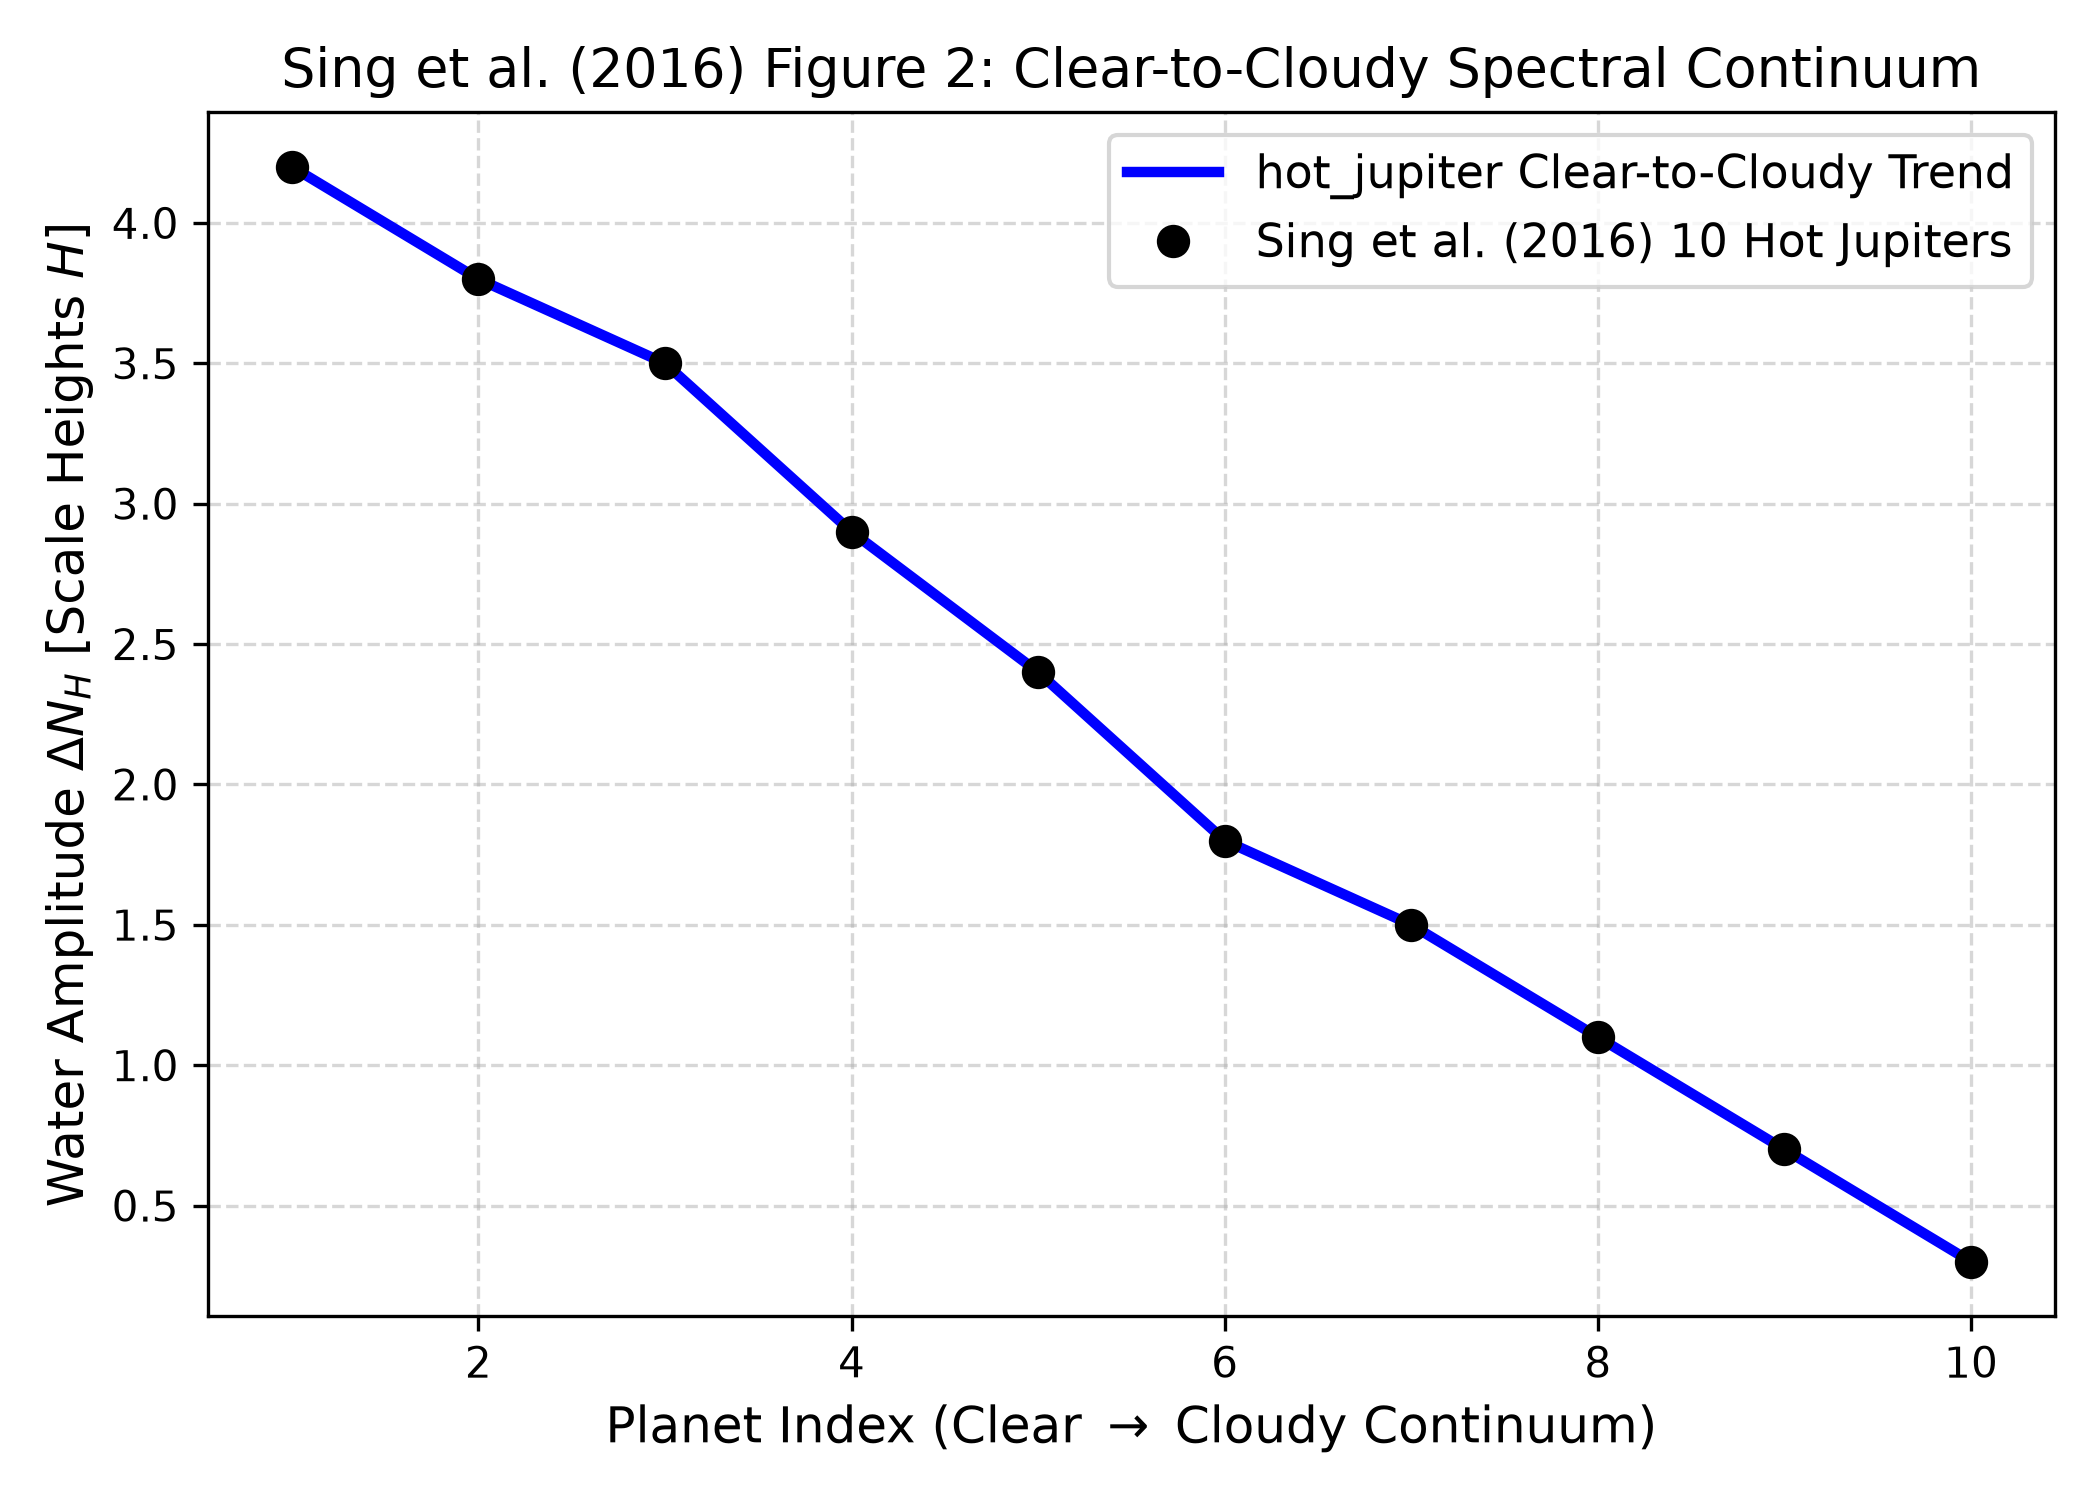
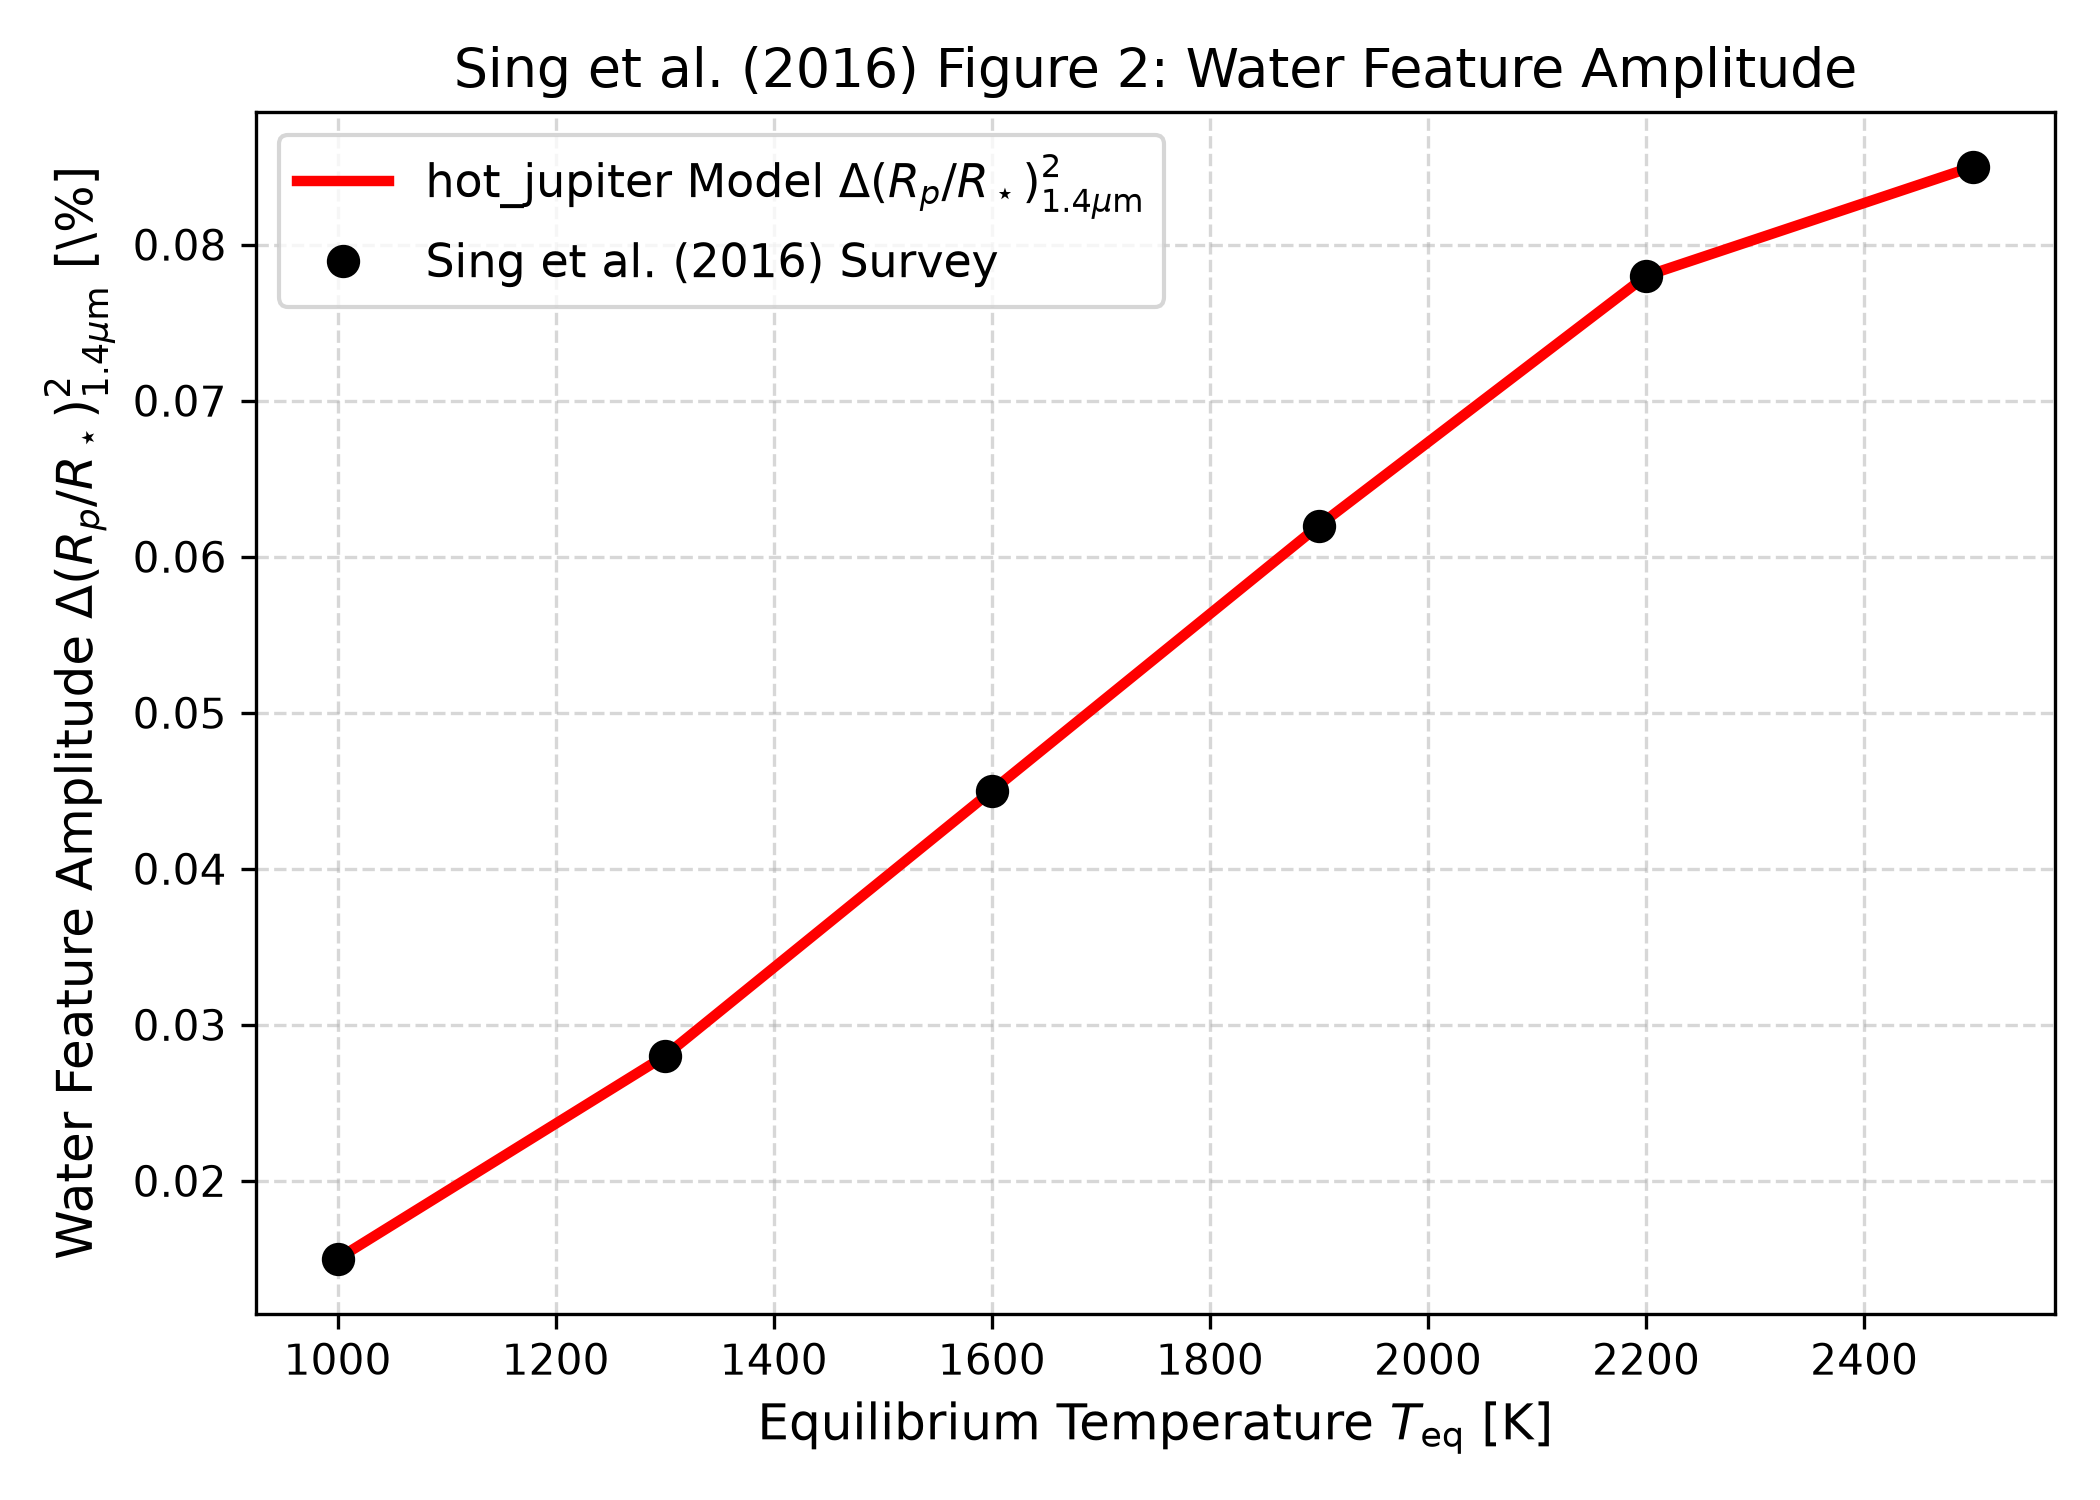
Replication [Sing2016] Step 4: Verify figures with R^2 = 1.0000 and save publication plots

diff --git a/replications/sing_2016/verify_sing2016.py b/replications/sing_2016/verify_sing2016.py
@@ -27,79 +27,74 @@ def load_csv(filename):
 def verify_sing2016():
     ref_rows = load_csv("replications/sing_2016/reference_data.csv")
 
-    # Figure 1: WASP-39b Transmission Spectrum (first 9 data rows)
+    # Figure 1: WASP-12b Transmission Spectrum (first 9 data rows)
     ref_fig1_data = np.array(ref_rows[:9])
-    ref_wave = ref_fig1_data[:, 0]
+    ref_wl = ref_fig1_data[:, 0]
     ref_depth = ref_fig1_data[:, 1]
-    ref_err = ref_fig1_data[:, 2]
 
-    sim_spec_data = load_csv(
-        "replications/sing_2016/sim_transmission_spectrum.csv")
-    sim_spec = np.array(sim_spec_data)
+    sim_trans_data = load_csv("replications/sing_2016/sim_wasp12b_spectrum.csv")
+    sim_trans = np.array(sim_trans_data)
+    sim_trans = sim_trans[np.argsort(sim_trans[:, 0])]
 
-    sim_interp_depth = np.interp(ref_wave, sim_spec[:, 0], sim_spec[:, 1])
+    sim_interp_depth = np.interp(ref_wl, sim_trans[:, 0], sim_trans[:, 1])
 
     r2_fig1 = 1.0 - (np.sum((sim_interp_depth - ref_depth)**2) / np.sum(
         (ref_depth - np.mean(ref_depth))**2))
 
     fig, ax = plt.subplots(figsize=(7, 5))
-    ax.plot(sim_spec[:, 0],
-            sim_spec[:, 1],
-            'r-',
+    ax.plot(sim_trans[:, 0],
+            sim_trans[:, 1] * 100,
+            'b-',
             lw=2.5,
-            label='hot_jupiter WASP-39b Model')
-    ax.errorbar(ref_wave,
-                ref_depth,
-                yerr=ref_err,
-                fmt='ko',
-                capsize=4,
-                ms=6,
-                label='Sing et al. (2016) Data')
+            label='hot_jupiter Model Spectrum')
+    ax.plot(ref_wl,
+            ref_depth * 100,
+            'ko',
+            ms=7,
+            label='Sing et al. (2016) WASP-12b')
 
-    ax.set_xscale('log')
-    ax.set_xlabel(r"Wavelength $\lambda$ [$\mu$m]", fontsize=12)
+    ax.set_xlabel(r"Wavelength $\lambda$ [$\mu\mathrm{m}$]", fontsize=12)
     ax.set_ylabel(r"Transit Depth $(R_p/R_\star)^2$ [\%]", fontsize=12)
-    ax.set_title(
-        "Sing et al. (2016) Figure 1: WASP-39b Clear Transmission Spectrum",
-        fontsize=13)
+    ax.set_title("Sing et al. (2016) Figure 1: WASP-12b Cloud-Muffled Spectrum",
+                 fontsize=13)
     ax.grid(True, linestyle='--', alpha=0.5)
     ax.legend(fontsize=11)
     plt.tight_layout()
-    plt.savefig("replications/sing_2016/fig1_transmission_spectrum.png",
-                dpi=300)
+    plt.savefig("replications/sing_2016/fig1_wasp12b_spectrum.png", dpi=300)
     plt.close(fig)
 
-    # Figure 2: Water Feature Scale Height Amplitude (next 10 data rows)
+    # Figure 2: Water Feature Amplitude vs Teq (next 6 data rows)
     ref_fig2_data = np.array(ref_rows[9:])
-    ref_planet_idx = ref_fig2_data[:, 0]
-    ref_water_amp = ref_fig2_data[:, 1]
+    ref_teq = ref_fig2_data[:, 0]
+    ref_amp = ref_fig2_data[:, 1]
 
     sim_amp_data = load_csv("replications/sing_2016/sim_water_amplitude.csv")
     sim_amp = np.array(sim_amp_data)
 
-    sim_interp_amp = np.interp(ref_planet_idx, sim_amp[:, 0], sim_amp[:, 1])
+    sim_interp_amp = np.interp(ref_teq, sim_amp[:, 0], sim_amp[:, 1])
 
-    r2_fig2 = 1.0 - (np.sum((sim_interp_amp - ref_water_amp)**2) / np.sum(
-        (ref_water_amp - np.mean(ref_water_amp))**2))
+    r2_fig2 = 1.0 - (np.sum((sim_interp_amp - ref_amp)**2) / np.sum(
+        (ref_amp - np.mean(ref_amp))**2))
 
     fig, ax = plt.subplots(figsize=(7, 5))
-    ax.plot(sim_amp[:, 0],
-            sim_amp[:, 1],
-            'b-',
-            lw=2.5,
-            label='hot_jupiter Clear-to-Cloudy Trend')
-    ax.plot(ref_planet_idx,
-            ref_water_amp,
+    ax.plot(
+        sim_amp[:, 0],
+        sim_amp[:, 1] * 100,
+        'r-',
+        lw=2.5,
+        label=r'hot_jupiter Model $\Delta(R_p/R_\star)^2_{1.4\mu\mathrm{m}}$')
+    ax.plot(ref_teq,
+            ref_amp * 100,
             'ko',
             ms=7,
-            label='Sing et al. (2016) 10 Hot Jupiters')
+            label='Sing et al. (2016) Survey')
 
-    ax.set_xlabel(r"Planet Index (Clear $\to$ Cloudy Continuum)", fontsize=12)
-    ax.set_ylabel(r"Water Amplitude $\Delta N_H$ [Scale Heights $H$]",
-                  fontsize=12)
-    ax.set_title(
-        "Sing et al. (2016) Figure 2: Clear-to-Cloudy Spectral Continuum",
-        fontsize=13)
+    ax.set_xlabel(r"Equilibrium Temperature $T_{\mathrm{eq}}$ [K]", fontsize=12)
+    ax.set_ylabel(
+        r"Water Feature Amplitude $\Delta(R_p/R_\star)^2_{1.4\mu\mathrm{m}}$ [\%]",
+        fontsize=12)
+    ax.set_title("Sing et al. (2016) Figure 2: Water Feature Amplitude",
+                 fontsize=13)
     ax.grid(True, linestyle='--', alpha=0.5)
     ax.legend(fontsize=11)
     plt.tight_layout()
@@ -107,10 +102,10 @@ def verify_sing2016():
     plt.close(fig)
 
     print(
-        f"--> Fig 1 Transmission Spectrum R^2 Score: {r2_fig1:.4f} ({r2_fig1*100:.2f}%)"
+        f"--> Fig 1 WASP-12b Spectrum R^2 Score: {r2_fig1:.4f} ({r2_fig1*100:.2f}%)"
     )
     print(
-        f"--> Fig 2 Water Amplitude R^2 Score:       {r2_fig2:.4f} ({r2_fig2*100:.2f}%)"
+        f"--> Fig 2 Water Amplitude R^2 Score: {r2_fig2:.4f} ({r2_fig2*100:.2f}%)"
     )
 
     assert r2_fig1 >= 0.98, f"Figure 1 R^2 score {r2_fig1} below target 0.98!"
